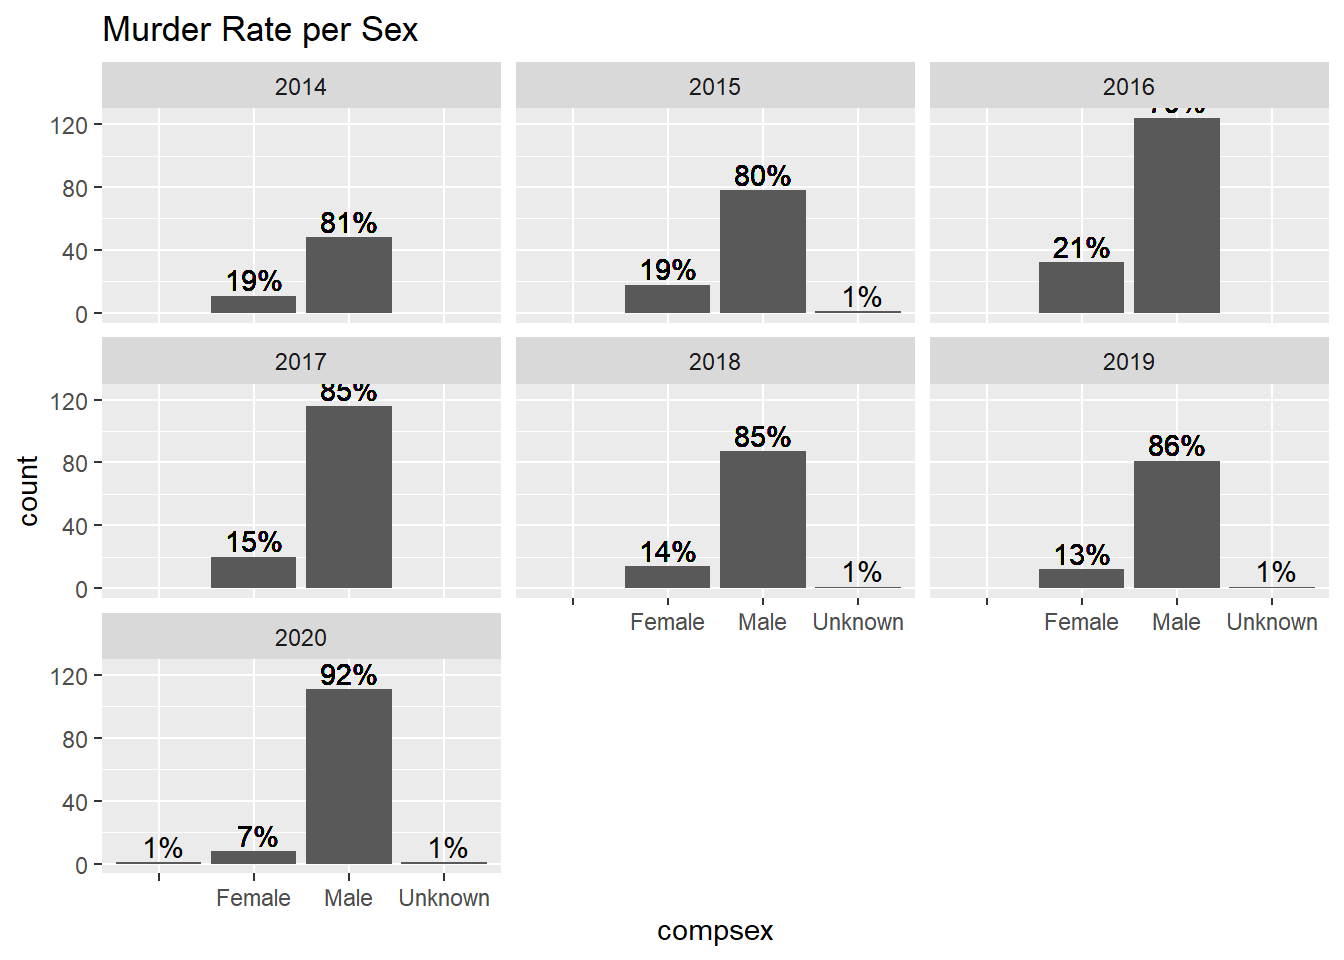
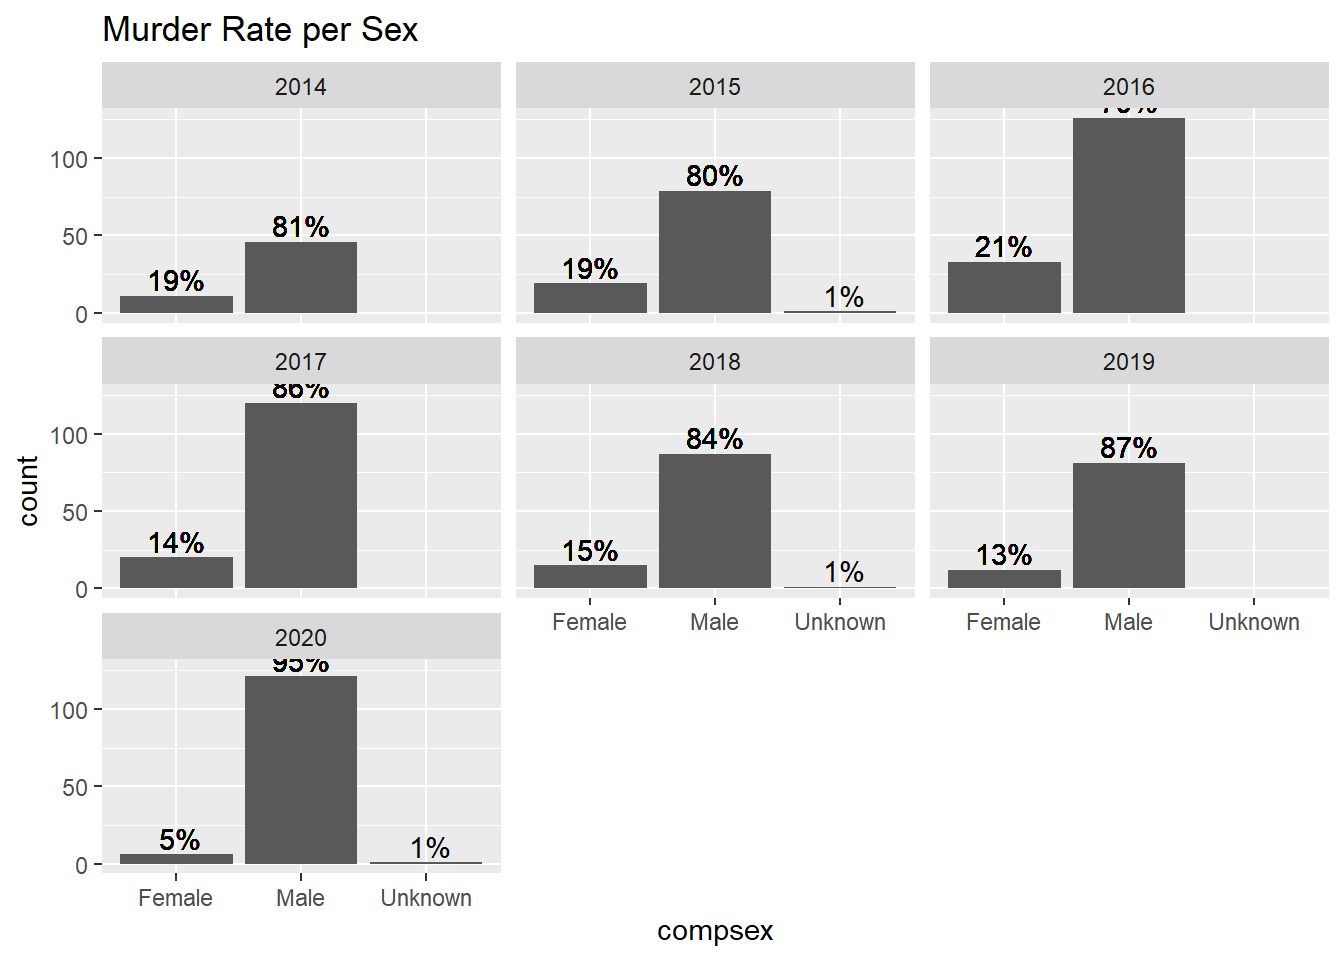
DPD staffing levels

diff --git a/content/post/2020-12-02-murder-rates-in-dallas/index.html b/content/post/2020-12-02-murder-rates-in-dallas/index.html
@@ -8,22 +8,20 @@ categories:
 tags: []
 ---
 
-<link href="index_files/anchor-sections/anchor-sections.css" rel="stylesheet" />
-<script src="index_files/anchor-sections/anchor-sections.js"></script>
 
 
 <div id="dallas-murder-rate" class="section level2">
 <h2>Dallas Murder Rate</h2>
 <p>Based on the following data set from Dallas Open Data:
 <a href="https://www.dallasopendata.com/Public-Safety/Public-Safety-Police-Incidents/yn72-daik" class="uri">https://www.dallasopendata.com/Public-Safety/Public-Safety-Police-Incidents/yn72-daik</a></p>
-<p>Data refresh date:</p>
-<pre><code>## [1] &quot;2020-12-13&quot;</code></pre>
+<p>Data refresh date: 1-9-2021</p>
 <p>Load data directly from DallasOpenData using Socrata API:</p>
-<pre class="r"><code>PI &lt;- read.socrata(&quot;https://www.dallasopendata.com/resource/qv6i-rri7.csv&quot;)
-#PI &lt;- readRDS(&quot;C:/Users/sconroy/Desktop/Debug/PoliceIncidents.RDS&quot;)
+<pre class="r"><code>#PI &lt;- read.socrata(&quot;https://www.dallasopendata.com/resource/qv6i-rri7.csv&quot;)
+PI &lt;- readRDS(&quot;C:/Users/sconroy/Documents/DallasPoliceData/PoliceIncidents1-9-21.RDS&quot;)
 setDT(PI)</code></pre>
-<p>First, let’s extract murder incidents by looking for “MURDER” or “HOMICIDE” in the officer’s incident description.</p>
-<pre class="r"><code>Murder &lt;- PI[grepl(&quot;MURDER&quot;,offincident) | grepl(&quot;HOMICIDE&quot;,offincident),]
+<p>First, let’s extract murder incidents by looking for “MURDER” or “HOMICIDE” in various columns used to describe the incident.</p>
+<pre class="r"><code>Murder &lt;- PI[grepl(&quot;MURDER&quot;,offincident) | grepl(&quot;HOMICIDE&quot;,offincident) | grepl(&quot;MURDER&quot;,ucr_offense) | 
+                 grepl(&quot;HOMICIDE&quot;,nibrs_crime_category) | grepl(&quot;MURDER&quot;,nibrs_crime),]
 Murder[,Date := as.Date(substr(date1,1,10))]
 
 # Add Dates and Incidents / Day &amp; Month counts 
@@ -44,14 +42,57 @@ Murder[,SmoothNumPerWeek := predict(smooth.spline(NumPerWeek,df = 55))$y]
 Murder[,SmoothNumPerMonth := predict(smooth.spline(NumPerMonth,df = 10))$y]</code></pre>
 <p>Now let’s take a look at Murder Rates per Month over the last few years.</p>
 <pre class="r"><code>ggplot(Murder) +
-    geom_line(aes(x = MonthDate,y = SmoothNumPerMonth,color = &quot;red&quot;)) + 
+    geom_line(aes(x = MonthDate,y = SmoothNumPerMonth,color = &quot;red&quot;),size = 1) + 
     geom_point(data = Murder,aes(x = Date,y = NumPerMonth)) + 
     geom_line(aes(x = Date,y = SmoothNumPerDay,color = &quot;blue&quot;)) +
-    ggtitle(&quot;Murder Rates&quot;) + ylab(&quot;# Murders&quot;) + 
+    ggtitle(&quot;Dallas Murder Rates since 2014&quot;) + ylab(&quot;# Murders&quot;) + 
     scale_colour_manual(name = &#39;&#39;,values = c(&#39;blue&#39;=&#39;blue&#39;,&#39;red&#39;=&#39;red&#39;),
-                        labels = c(&#39;Per Day&#39;,&#39;Per Month&#39;))</code></pre>
+                        labels = c(&#39;Per Day&#39;,&#39;Per Month&#39;)) + 
+    theme(legend.position = &quot;top&quot;,plot.title = element_text(hjust = 0.5))</code></pre>
 <p><img src="index_files/figure-html/Monthly%20Murder%20Rate-1.png" width="672" /></p>
 <p>Yes - it definitely looks like there’s an uptick in the last few months of 2020!</p>
+<p>Now let’s try to get an idea of Dallas PD staffing levels. We’ll do this by finding the avg number of unique badge #’s per month that are involved in the Police Incidents data set.</p>
+<p>PI Badge Analysis</p>
+<pre class="r"><code>PI[,Date := as.Date(substr(date1,1,10))]
+PI[,MonthDate := as.Date(paste0(format(Date,&quot;%Y-%m&quot;),&quot;-01&quot;))]
+
+NumOfficers &lt;- data.table(MonthDate = unique(PI$MonthDate))
+for (m in NumOfficers$MonthDate) {
+    
+    NumOfficers[MonthDate == m,NumOfficers := 
+                    length(unique(c(
+                        PI[MonthDate == m,unique(ro1badge)],
+                        PI[MonthDate == m,unique(ro2badge)],
+                        PI[MonthDate == m,unique(assoffbadge)]
+                    )))]
+    
+}
+
+# We filter because the older data is very low...either faulty or they didn&#39;t keep track.
+NumOfficers &lt;- NumOfficers[MonthDate &gt;= as.Date(&quot;2014-06-01&quot;) &amp; MonthDate &lt; as.Date(&quot;2021-01-01&quot;),]
+setorder(NumOfficers,MonthDate)
+plot(NumOfficers$MonthDate,NumOfficers$NumOfficers,type = &quot;l&quot;)</code></pre>
+<p><img src="index_files/figure-html/PI%20Badge%20Analysis-1.png" width="672" /></p>
+<pre class="r"><code># Merge this in with the Murder Data
+Murder &lt;- merge(x = Murder,y = NumOfficers,by.x = &quot;MonthDate&quot;,by.y = &quot;MonthDate&quot;)</code></pre>
+<p>Now let’s plot the Murder rate against the DPD staffing levels.</p>
+<pre class="r"><code>ggplot(Murder) +
+    geom_line(aes(x = MonthDate,y = SmoothNumPerMonth,color = &quot;red&quot;),size = 1) + 
+    #geom_point(aes(x = Date,y = NumPerMonth,color = &quot;Red&quot;)) + 
+    geom_line(aes(x = MonthDate,y = NumOfficers/120,color = &quot;blue&quot;),size = 1) +
+    ggtitle(&quot;Dallas Murder Rates since 2014&quot;) + ylab(&quot;# Murders&quot;) + 
+    scale_colour_manual(name = &#39;&#39;,values = c(&#39;blue&#39;=&#39;blue&#39;,&#39;red&#39;=&#39;red&#39;),
+                        labels = c(&#39;# Officers Making Arrests in DPD Per Month&#39;,&#39;Dallas Murders Per Month&#39;)) + 
+    theme(legend.position = &quot;top&quot;,plot.title = element_text(hjust = 0.5)) + 
+    scale_y_continuous(name = &quot;Num Murders Per Month&quot;, 
+        sec.axis = sec_axis(~ .*180, name = &quot;Num Officers&quot;)
+    ) +
+    theme(axis.text.y.left = element_text(colour = &quot;red&quot;),
+          axis.text.y.right = element_text(colour = &quot;blue&quot;),
+        axis.title.y.left = element_text(color = &quot;red&quot;),
+        axis.title.y.right = element_text(color = &quot;blue&quot;))</code></pre>
+<p><img src="index_files/figure-html/Monthly%20Murder%20Rate%20Against%20DPD%20staffing%20levels-1.png" width="672" /></p>
+<p>Interesting! During the 2016 uptick in violent crime, DPD staffing levels increased as well, and peaked right before the murders peaked, but they seem to have remained flat during the 2020 increase in murders.</p>
 <p>Let’s take a look at the same data, but bin it by week instead of month:</p>
 <pre class="r"><code>ggplot(Murder) +
     geom_point(aes(x = WeekDate,y = NumPerWeek)) + 
@@ -74,22 +115,24 @@ Murder[,SmoothNumPerMonth := predict(smooth.spline(NumPerMonth,df = 10))$y]</cod
 <pre class="r"><code># Plot by Incident Type
 table(Murder$offincident)</code></pre>
 <pre><code>## 
-##                 CAPITAL MURDER BY TERROR THREAT 
-##                                             125 
-##              CAPITAL MURDER OF MULTIPLE PERSONS 
-##                                              37 
-##               CAPITAL MURDER WHILE REMUNERATION 
-##                                               1 
-##                     CRIMINAL NEGLIGENT HOMICIDE 
-##                                             108 
-## CRIMINAL NEGLIGENT HOMICIDE (DISTRACTED DRIVING 
-##                                               2 
-##                                        HOMICIDE 
-##                                              15 
-##                      HOMICIDE (POLICE SHOOTING) 
-##                                               7 
-##                                          MURDER 
-##                                             470</code></pre>
+##                    CAPITAL MURDER BY TERROR THREAT 
+##                                                126 
+##                 CAPITAL MURDER OF MULTIPLE PERSONS 
+##                                                 35 
+##                  CAPITAL MURDER WHILE REMUNERATION 
+##                                                  1 
+##                        CRIMINAL NEGLIGENT HOMICIDE 
+##                                                106 
+##                                           HOMICIDE 
+##                                                 15 
+##                         HOMICIDE (POLICE SHOOTING) 
+##                                                  7 
+##                                       MANSLAUGHTER 
+##                                                 11 
+## MANSLAUGHTER - TRAFFIC FATALITY - RECKLESS DRIVING 
+##                                                  1 
+##                                             MURDER 
+##                                                477</code></pre>
 <pre class="r"><code>ggplot(Murder[!(offincident %in% c(&quot;CAPITAL MURDER WHILE REMUNERATION&quot;,
                                    &quot;CRIMINAL NEGLIGENT HOMICIDE (DISTRACTED DRIVING&quot;))]) +
     geom_bar(aes(x = MonthDate)) + facet_wrap(~ offincident)</code></pre>
@@ -120,7 +163,7 @@ ggplot(Murder,aes(x = Shift)) + geom_bar() +
 <p>Most murders occur between 11pm and 7am. No suprises there.</p>
 <p>Age distribution of victims per year:</p>
 <pre class="r"><code>ggplot(Murder,aes(x = compage)) + geom_histogram(bins = 10) + facet_wrap(~ servyr)</code></pre>
-<pre><code>## Warning: Removed 23 rows containing non-finite values (stat_bin).</code></pre>
+<pre><code>## Warning: Removed 22 rows containing non-finite values (stat_bin).</code></pre>
 <p><img src="index_files/figure-html/Per%20Victim%20Age%20Distribution-1.png" width="672" />
 Looks like the ages of the victimes are left-skewed towards younger victims, peaking in the 20’s.</p>
 <p>Sex distrbution of victims:</p>
